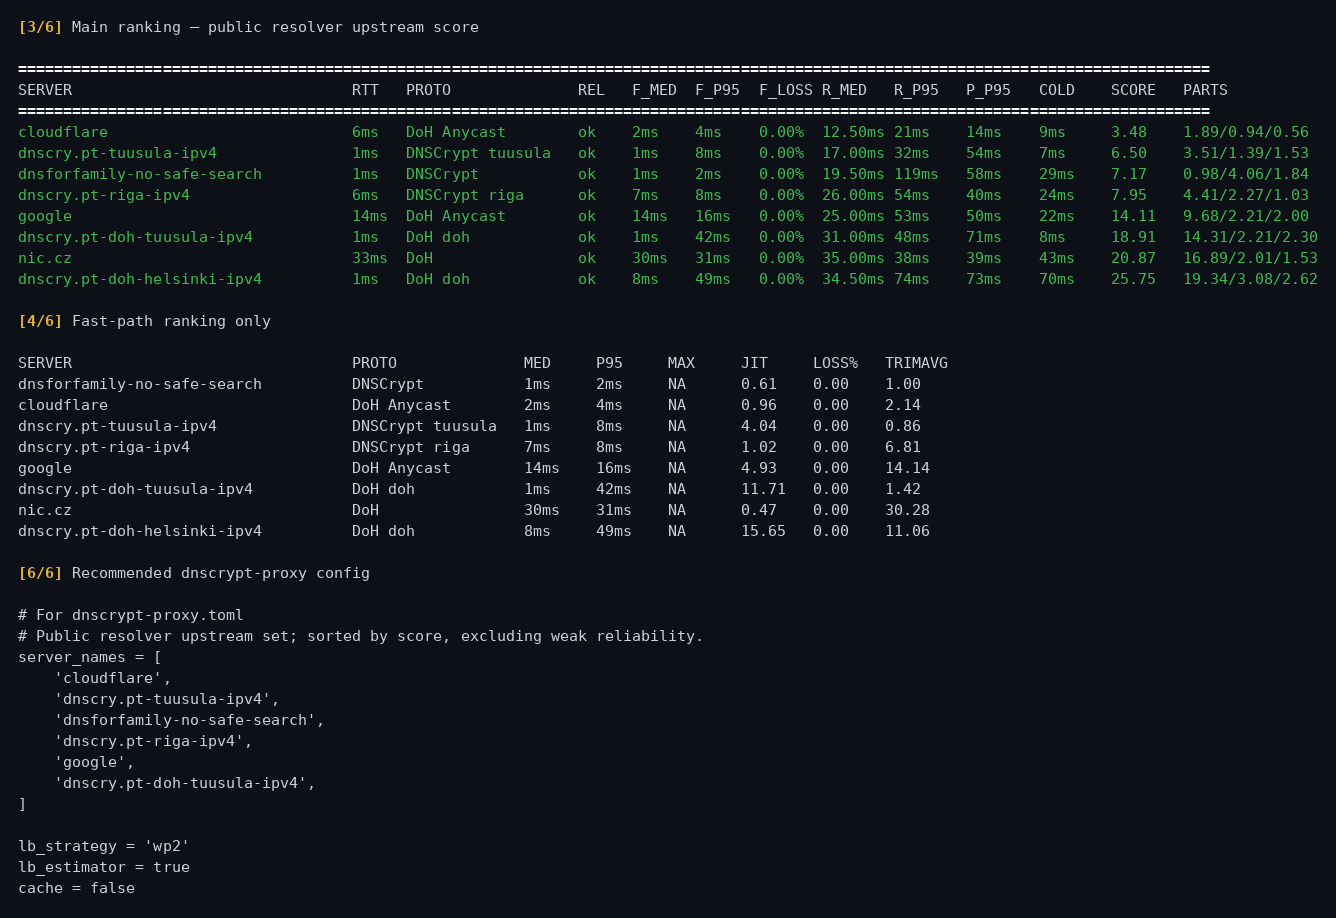
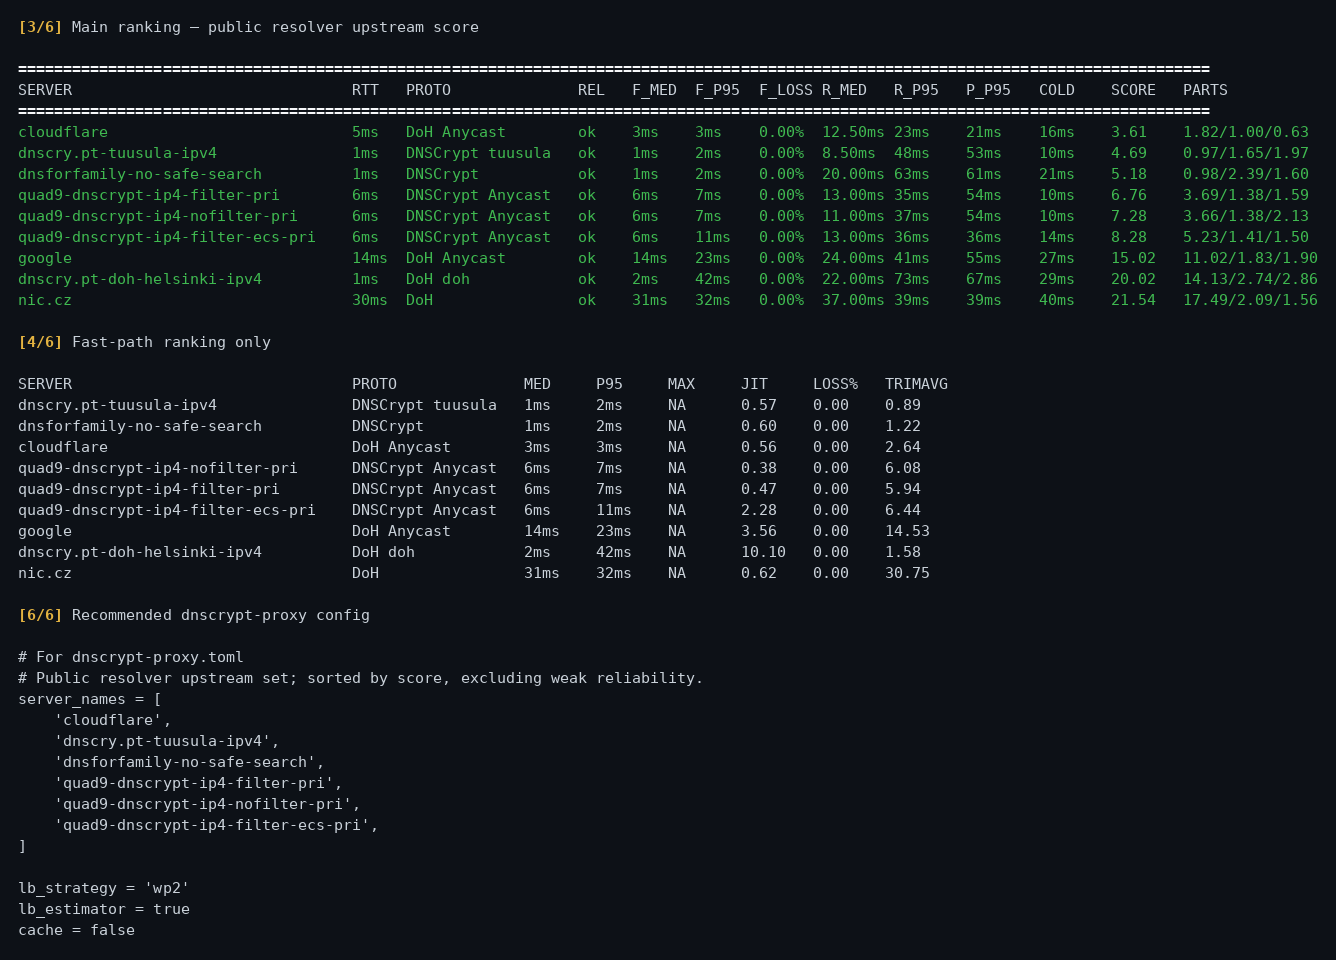
release: v8.5.0 — pin Quad9 DNSCrypt, re-verify the DoH exclusion
Quad9 DNSCrypt joins Cloudflare and Google as a pinned baseline, so it appears
in every run instead of depending on where it lands in the discovery RTT cut.
It earns the slot: 0.00% loss, 6ms median, 7ms p95, scoring 6.76-8.28 across
its variants and ranking mid-table against the fastest resolvers available.

The Quad9 DoH exclusion was re-verified rather than carried forward on trust.
It cited 4-6% packet loss recorded at some earlier date; re-measured with 1200
sequential queries per protocol, same host, same link, back to back:

    quad9-dnscrypt-ip4-nofilter-pri      0/1200 lost   0.00%
    quad9-doh-ip4-port443-nofilter-pri  22/1200 lost   1.83%

Substantially improved, but not zero, while DNSCrypt on the same network loses
nothing at all -- so the exclusion stands. Latency is identical between the two
transports (6ms median, 7ms p95 both), so this is a delivery-reliability
difference and not a speed one. Quad9 is a fast resolver on either transport,
and the README no longer implies otherwise.

The in-script comment and the README table now carry the measured numbers and
the date they were taken, so the next person to question the exclusion can see
what it currently rests on rather than re-deriving it.

Screenshot regenerated from a run with Quad9 pinned: it now appears in both the
ranking table and the recommended config.

diff --git a/README.md b/README.md
@@ -51,7 +51,7 @@ Most DNS benchmark tools make a fundamental methodological mistake: they mix cac
 * **Jitter-Dominant Scoring:** Prioritizes latency consistency over absolute peak speed. A stable resolver that always answers in 8ms easily beats a erratic node alternating between 3ms and 40ms.
 * **Ethical Query Pacing:** Applies intelligent packet pacing (15ms for DoH, 50–150ms randomized windows for DNSCrypt) to guarantee the benchmark doesn't accidentally trigger security rate-limits or yield false failures.
 * **Protocol Auto-Detection:** Dynamically senses whether a server target utilizes DoH (DNS over HTTPS) or DNSCrypt, automatically adjusting underlying test parameters.
-* **Baseline Pinning:** Explicitly locks known-good public operators (Cloudflare, Google) so they always appear in final tables as an objective reference, even if local routing anomalies kept them out of top-N speed categories.
+* **Baseline Pinning:** Explicitly locks known-good public operators (Cloudflare, Google, Quad9 DNSCrypt) so they always appear in final tables as an objective reference, even if local routing anomalies kept them out of top-N speed categories.
 * **Smart Filtering:** Permanently filters out problematic transport layouts, such as Quad9 DoH nodes (see analysis below), protecting your upstream configuration from unstable routing paths.
 
 ---
@@ -181,11 +181,20 @@ total score = fast-path + recursion + burst + cold-start
 
 Extensive production testing from a headless VPS infrastructure node in Finland exposed profound behavioral deltas between different cryptographic transport protocols operating over the exact same anycast destination networks.
 
-| Server | Protocol | Packet loss | Score |
-| :--- | :--- | :--- | :--- |
-| `quad9-dnscrypt-ip4-nofilter-pri` | DNSCrypt | **0.00%** | 14.20 |
-| `quad9-doh-ip4-port443-nofilter-pri` | DoH | **4–6%** | 91.63 |
-| `cloudflare` | DoH | **0.00%** | 6.88 |
+| Server | Protocol | Packet loss | Median | P95 |
+| :--- | :--- | :--- | :--- | :--- |
+| `quad9-dnscrypt-ip4-nofilter-pri` | DNSCrypt | **0.00%** (0/1200) | 6 ms | 7 ms |
+| `quad9-doh-ip4-port443-nofilter-pri` | DoH | **1.83%** (22/1200) | 6 ms | 7 ms |
+| `cloudflare` | DoH | **0.00%** | 2 ms | 4 ms |
+
+Re-measured 2026-08-01: 1200 sequential queries per protocol, same host, same
+link, run back to back. The Quad9 DoH loss rate has improved substantially from
+the 4–6% first recorded, but it has not reached zero, and the DNSCrypt endpoints
+on the same network still lose nothing at all.
+
+Note that **latency is identical** between the two Quad9 transports — 6 ms
+median, 7 ms p95 for both. This is purely a delivery-reliability difference, not
+a speed one. Quad9 is a fast resolver on either transport.
 
 Notice the critical variance: The underlying network route, source host, and data target infrastructure remain perfectly identical. The singular variable modified is transport protocol.
 
@@ -194,7 +203,7 @@ Notice the critical variance: The underlying network route, source host, and dat
 * **DNSCrypt** processes transactions via completely independent, stateless encrypted UDP structures. There are no long-lived underlying connection sessions to log, monitor, or throttle. As a direct result, Quad9's active edge defenses are never tripped, allowing their core platform to process massive query loads with a **perfect 0.00% drop rate**.
 
 ### What this means for your network:
-Running Quad9 via the DNSCrypt transport layout delivers premium end-to-end privacy, native DNSSEC cryptographic validation, and flawless 0% packet delivery. Attempting to force Quad9 traffic via DoH in heavy multi-user environments can result in up to 1 out of every 20 queries being dropped during active use.
+Running Quad9 over DNSCrypt delivers premium end-to-end privacy, native DNSSEC validation, and a flawless 0% drop rate. Forcing the same traffic over DoH currently costs roughly 1 dropped query in every 55 (1.83%, re-measured 2026-08-01; it was nearer 1 in 20 when first tested). Since both transports answer equally fast, there is no speed argument for accepting that loss.
 
 ### Why Quad9 DoH is permanently excluded
 To safeguard your target systems, the automated discovery process explicitly filters out all string targets matching `quad9-doh-*`. This structural blocker ensures an ephemeral fast anycast ping during initial discovery cannot accidentally slip an unstable, rate-limited DoH endpoint into your production routing configuration.
@@ -255,7 +264,7 @@ Community enhancements, bug reports, and optimizations are welcome. Core develop
 This project follows a human-driven architecture approach with AI-assisted implementation. I do not write native code; I engineer the systems, the logic, and the validation methodology.
 
 The production syntax, scoring weights, and edge-case handling were refined through iterative collaboration with multiple AI models:
-* **Anthropic Claude (Opus 4.7 / Sonnet 4.6)** — primary architect for methodology fixes, code review, and statistical reasoning.
+* **Anthropic Claude (Opus 5, Opus 4.7 / Sonnet 4.6)** — primary architect for methodology fixes, code review, and statistical reasoning. Opus 5 did the v8.4.0 field test: root-caused the warm-up gap, measured authoritative latency and Quad9 packet loss, and re-verified the exclusions against fresh data.
 * **Google Gemini** — secondary review and refactoring assistance.
 * **OpenAI ChatGPT / Codex** — early prototyping and bash idiom checks.
 

diff --git a/CHANGELOG.md b/CHANGELOG.md
@@ -2,6 +2,25 @@
 
 All notable changes to dns-ultra are documented here.
 
+## [8.5.0] — 2026-08-01
+
+### Added
+- **Quad9 DNSCrypt pinned as a baseline resolver.** `quad9-dnscrypt-ip4-nofilter-pri` joins Cloudflare and Google in `PINNED_SERVERS`, so Quad9 now appears in every run rather than depending on where it lands in the discovery RTT cut. It earns the slot: measured at 0.00% loss, 6 ms median, 7 ms p95, scoring 6.76–8.28 across its variants and ranking mid-table against the fastest resolvers available.
+
+### Changed
+- **Quad9 DoH exclusion re-verified rather than assumed.** The `DISABLED_SERVERS` rationale cited 4–6% packet loss recorded at some earlier date. Re-measured 2026-08-01 with 1200 sequential queries per protocol, same host, same link, back to back:
+
+  | endpoint | loss | median | p95 |
+  |---|---|---|---|
+  | `quad9-dnscrypt-ip4-nofilter-pri` | **0.00%** (0/1200) | 6 ms | 7 ms |
+  | `quad9-doh-ip4-port443-nofilter-pri` | **1.83%** (22/1200) | 6 ms | 7 ms |
+
+  The loss has improved substantially but is still not zero, while DNSCrypt on the same network loses nothing at all, so the exclusion stands. Latency is identical between the two transports, so this is purely a delivery-reliability difference — Quad9 is fast either way. The in-script comment and the README table now carry the current numbers instead of the old ones.
+
+### Documentation
+- Screenshot regenerated from a run with Quad9 pinned, so the image shows it in both the ranking table and the recommended config.
+- README credits Anthropic Claude Opus 5 for the v8.4.0 field test.
+
 ## [8.4.0] — 2026-08-01
 
 Field-tested on a live edge resolver. Two of the three findings below changed
